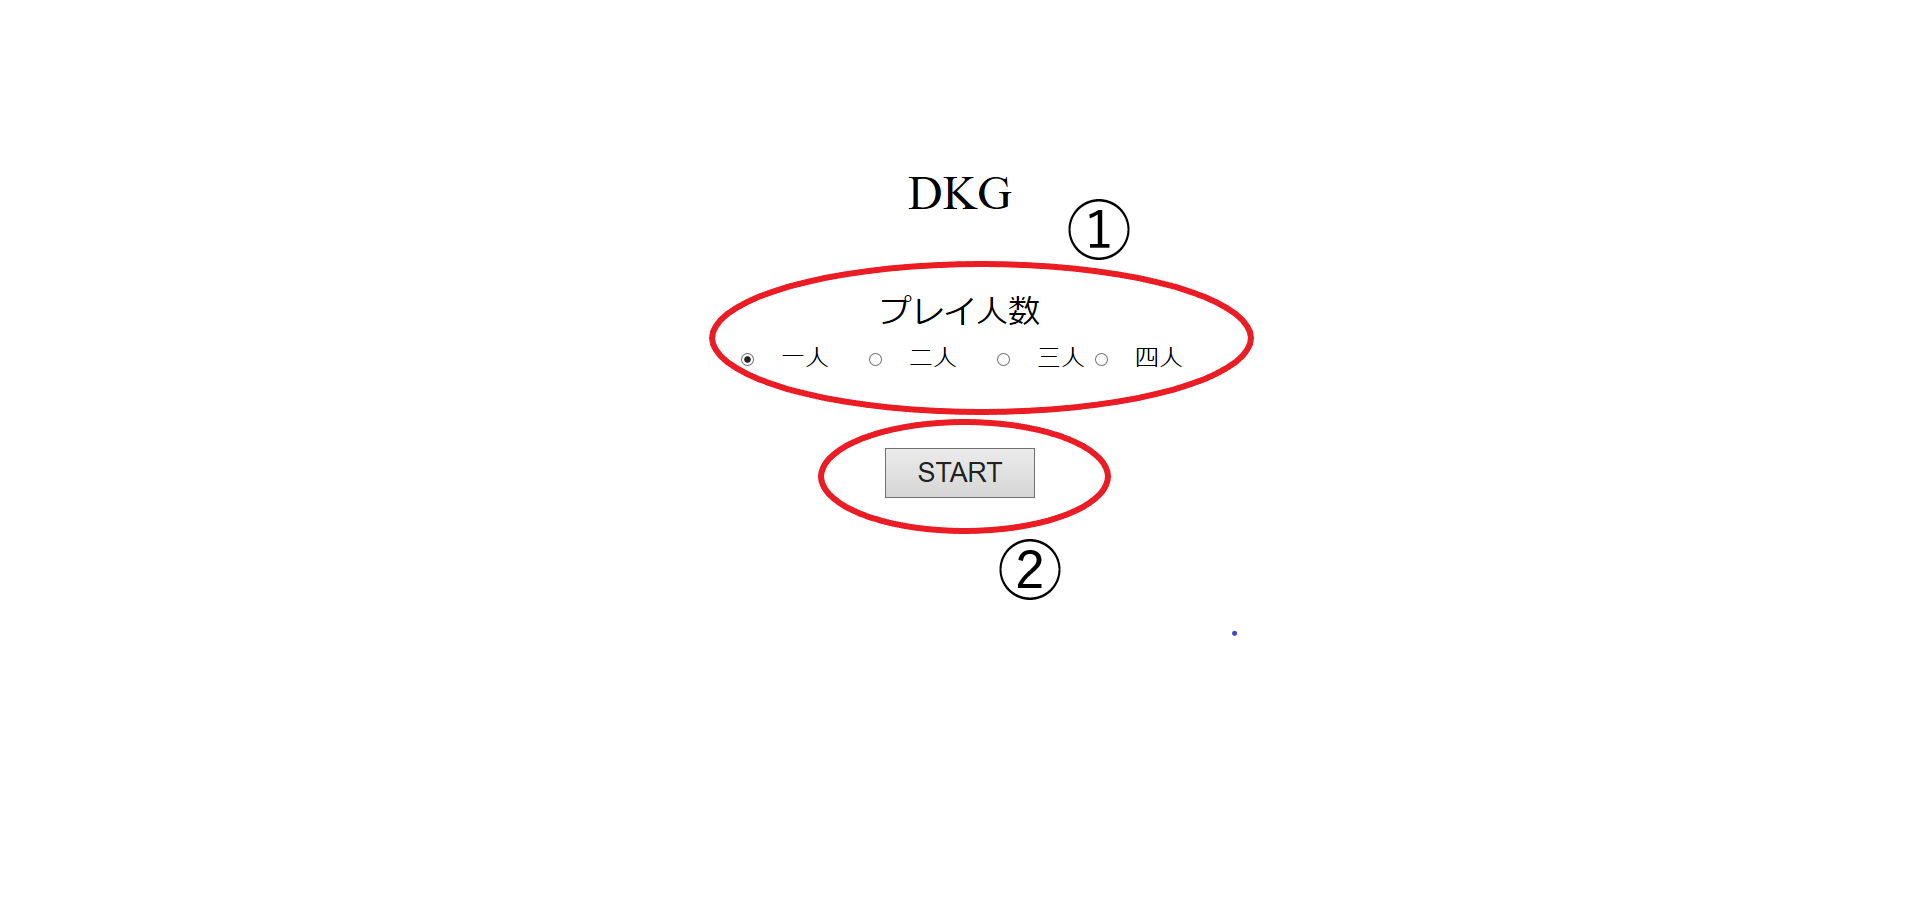
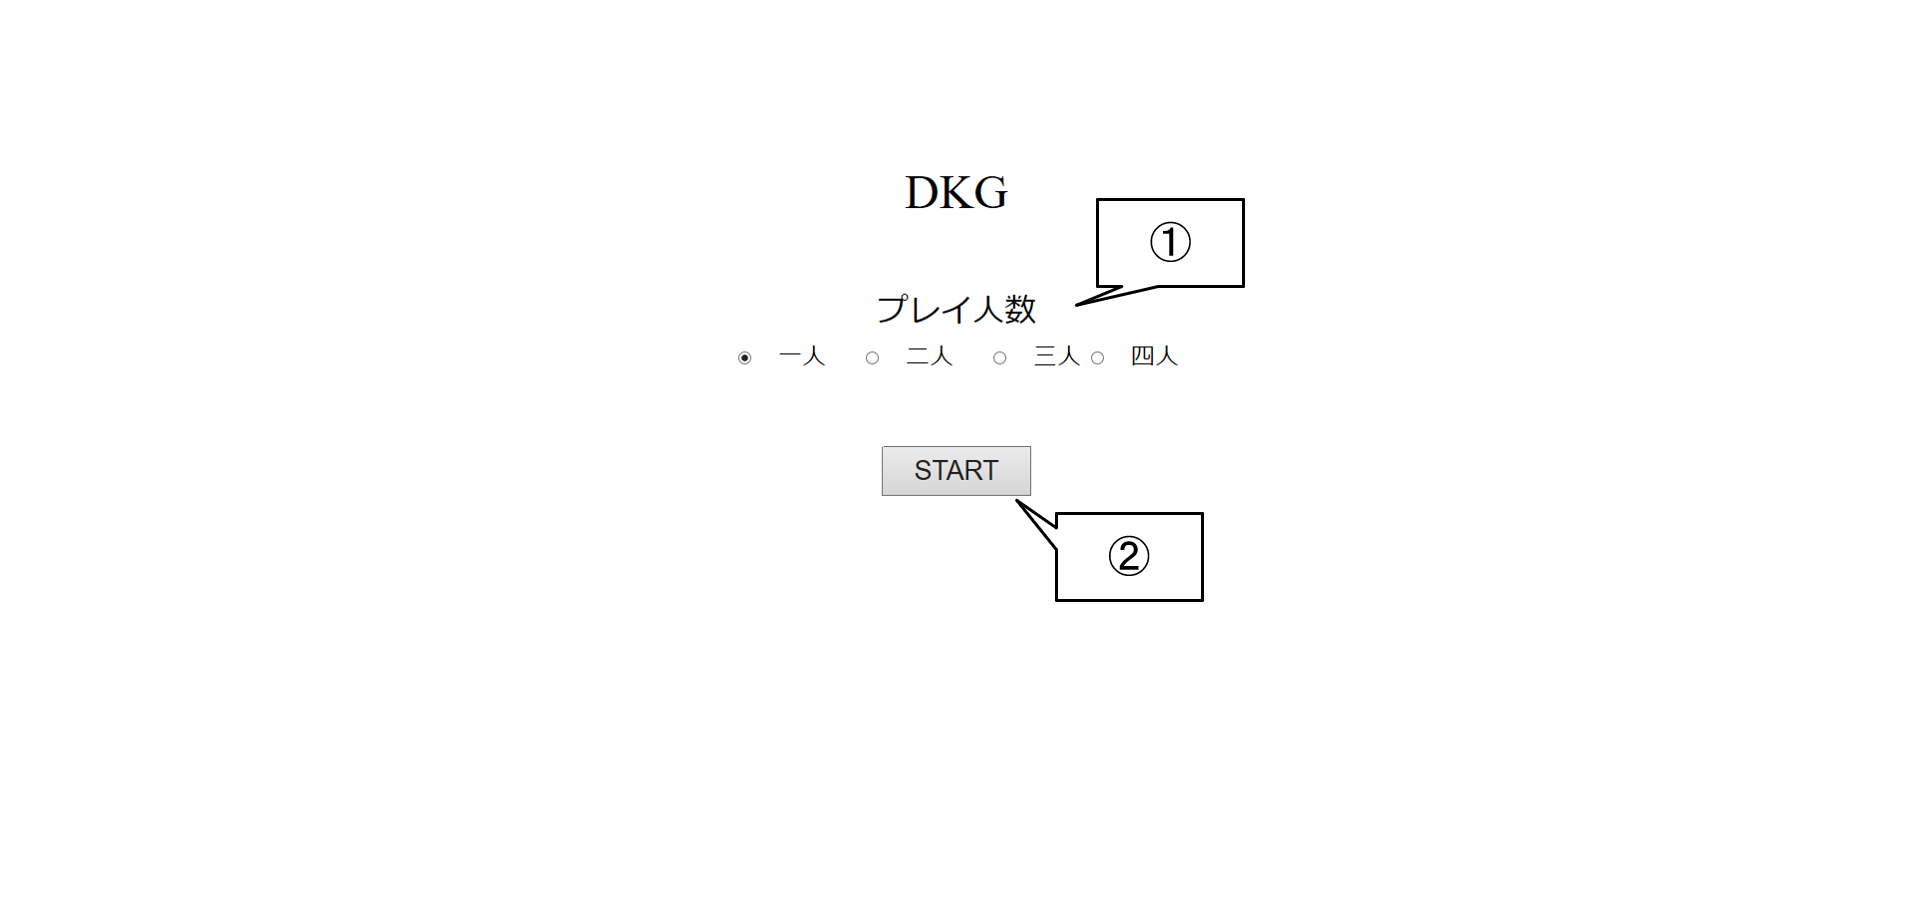
マニュアル更新

Changed region(s): [[0.3701, 0.305, 0.6477, 0.671], [0.4318, 0.2135, 0.6477, 0.3355]]

diff --git a/README.md b/README.md
@@ -9,12 +9,48 @@
 
 ### ゲーム開始前
 
-![ゲーム開始画面](./image/start.PNG)
+![ゲーム開始画面](./image/start.png)
 ①参加人数選択
 ②STARTボタン
 - start.htmlを実行してゲーム開始画面を開く（ブラウザはEdge推奨．Chromeでも動作確認済み）
 - デイスプレイによって各要素の位置がずれるので，その場合はブラウザで画面サイズを変更
-- 各プレイヤーがキャラ選択ボタンでキャラクターを選択
+- 該当するプレイヤー人数のラジオボタンをクリックしチェックをつける（1～4人）
 - STARTボタンをクリックするとゲーム開始
 ---
 ### ゲーム開始後
+
+![ゲーム画面](./image/game.png)
+③ToDoのエリア（まだ手を付けていないストーリーを置いておく）
+④Readyのエリア（ストーリーのReadyで減らすべきタスクを減らすことができる）
+⑤Doingのエリア（ストーリーのDoingで減らすべきタスクを減らすことができる）
+⑥Doneのエリア（全てのタスクを減らし終わったストーリーを置いておく）
+⑦ストーリーカード（各エリアで減らすべきタスクが設定されている．左から合計，Ready，Doingで減らすべきタスクとなっている）
+⑧ラウンド数の表示（現在のラウンド数の表示）
+⑨Solutionボタン（クリックするとProblem解決モードになる）
+⑩Solution所持数（Solutionカードの所持数の表示）
+⑪チャンスカード（クリックするとチャンスカードを引くことができる）
+⑫サイコロ（クリックするとサイコロ振ることができる）
+⑬手番プレイヤーの表示（手番プレイヤーの表示）
+⑭メッセージ表示場所（エラーメッセージなどを出力）
+⑮ENDボタン（クリックすると次のプレイヤーに手番が移る）
+- ストーリーカードをクリックするとテープの部分がプレイヤー番号に変わる．この状態をストーリーを選択している状態という．
+- サイコロを振りストーリをクリックするとタスクを減らすことができる
+- サイコロの出目だけタスクを減らすことができタスクを減らし終えると次のエリアに移動させる．しかし前のエリアのタスクが残っているのに次のエリアでタスクを減らすことはできない．
+- Doingにあるストーリーのタスクを初めて減らすとテープの部分がプレイヤー番号とプレイヤーに応じた色に変わる．この状態を「担当」といい，「担当」のついたストーリーは担当者でないとタスクを減らそうとしたときにサイコロの出目を半分にするというデメリットが発生する．
+- チャンスカードを引くことでゲームに様々なイベントが発生する．チャンスカードには3種類のカードがある
+  - Eventカード（引くと即時発動．カードに書かれた処理を実行する．）
+  - Problemカード（引くと即時発動．今選択されているストーリーに問題が発生する）
+  - Solutionカード（引くと手元に置いておく．使用することでストーリーに発生している問題を）
+- Problemカードを引くと今選択されているストーリーに問題が発生する．問題が発生したストーリーは問題が解決されるまでDoneに移動することができなくなる．
+- 問題を解決するためにSolutionカードを用いる．Solutionカードを持っているプレイヤーが自分の手番時Solutionボタンを押して問題が発生しているストーリーをクリックすることで問題解決に挑むことができる．問題解決に挑むプレイヤーは他のプレイヤーに今発生している問題がどのようにすれば解決するかをプレゼンする．プレゼンした解決内容で問題が解決できると他のプレイヤーがすべて納得すれば問題は解決される．
+### ゲームの流れ
+以下の手順を1ターンとする．ターンが一周することを1ラウンドとする．
+- 1.ストーリーを選択する
+- 2.サイコロを振る
+- 3.チャンスカードを引く（任意）
+- 4.タスクの残り工数を減らす
+- 5.Solutionカードを使用する（任意）
+- 6.ターン終了
+
+### 終了条件
+- 12ラウンド終了する，もしくはすべてのストーリーカードのタスクを終了させてDoneに移動するとゲーム終了
